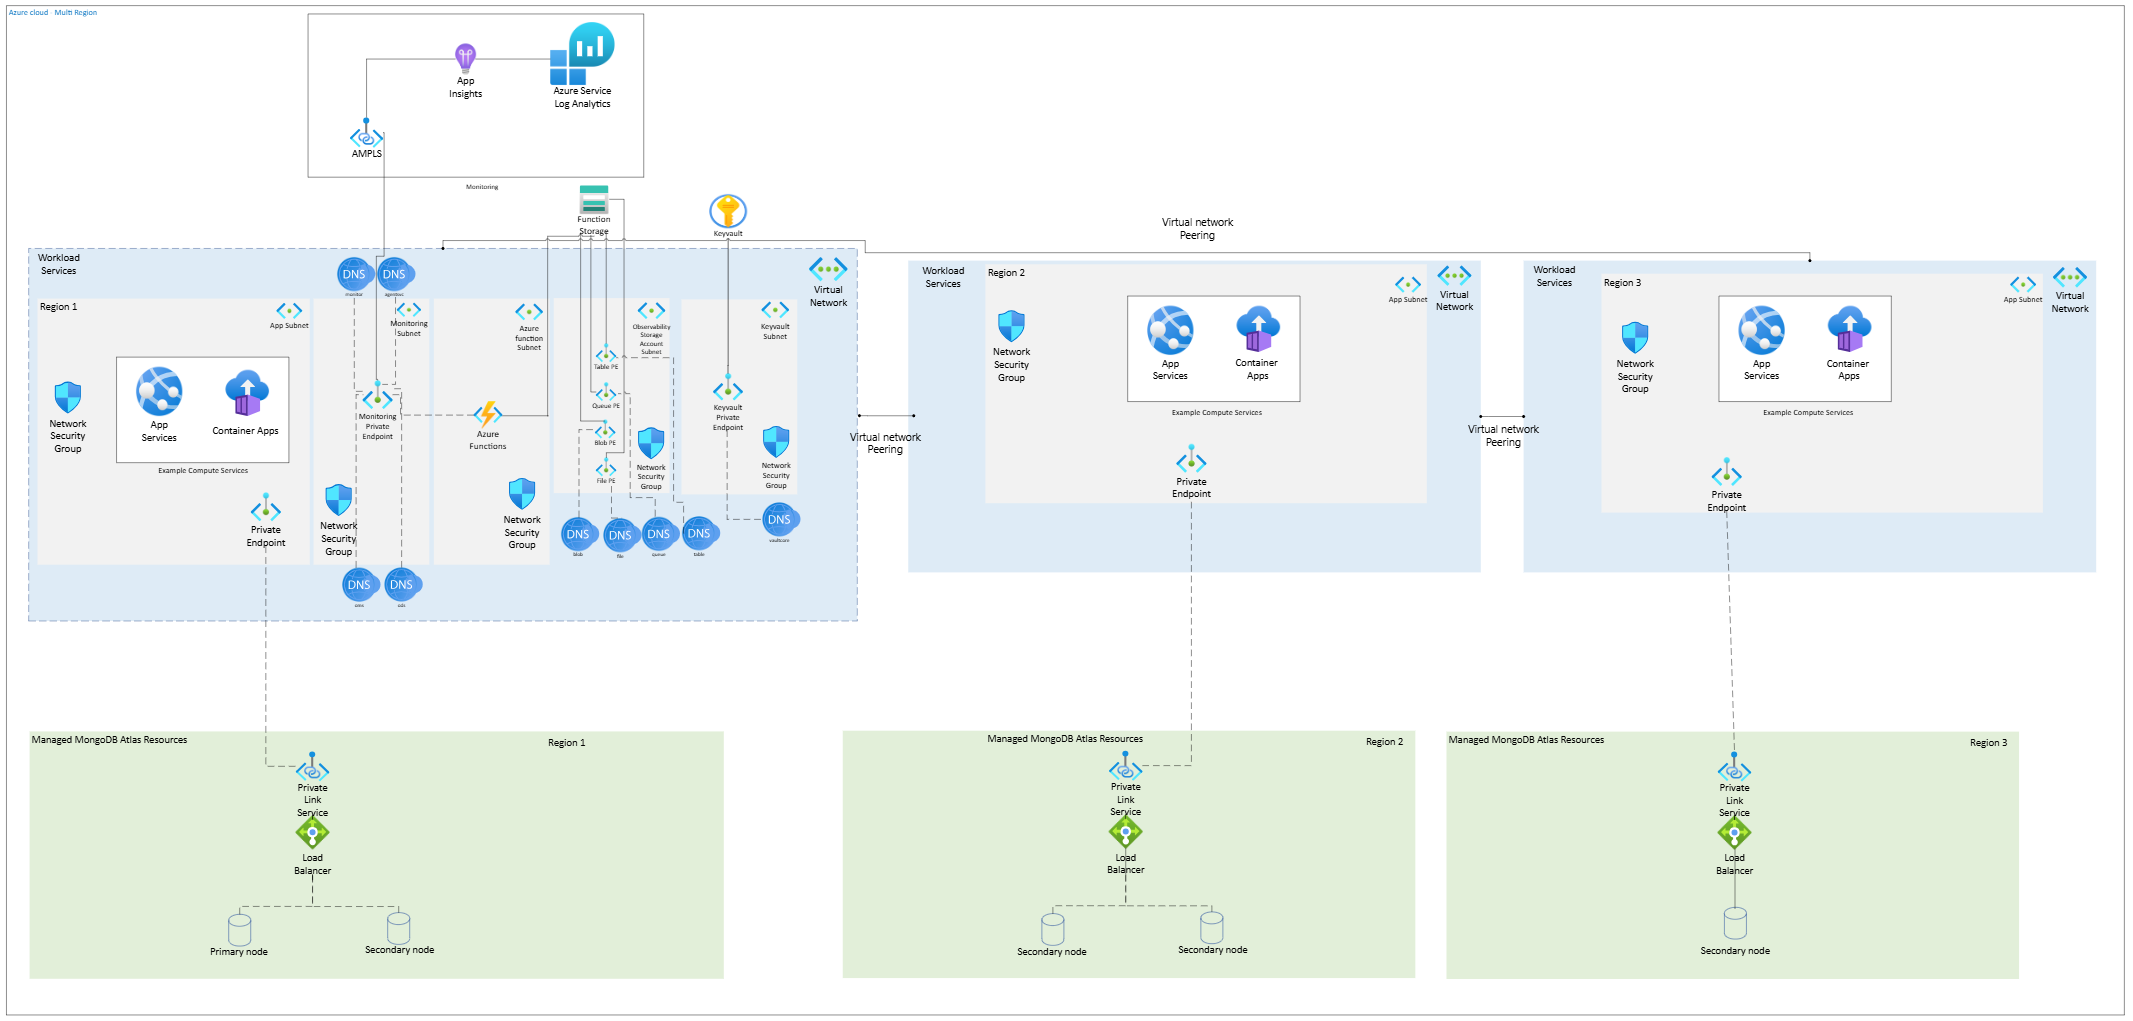
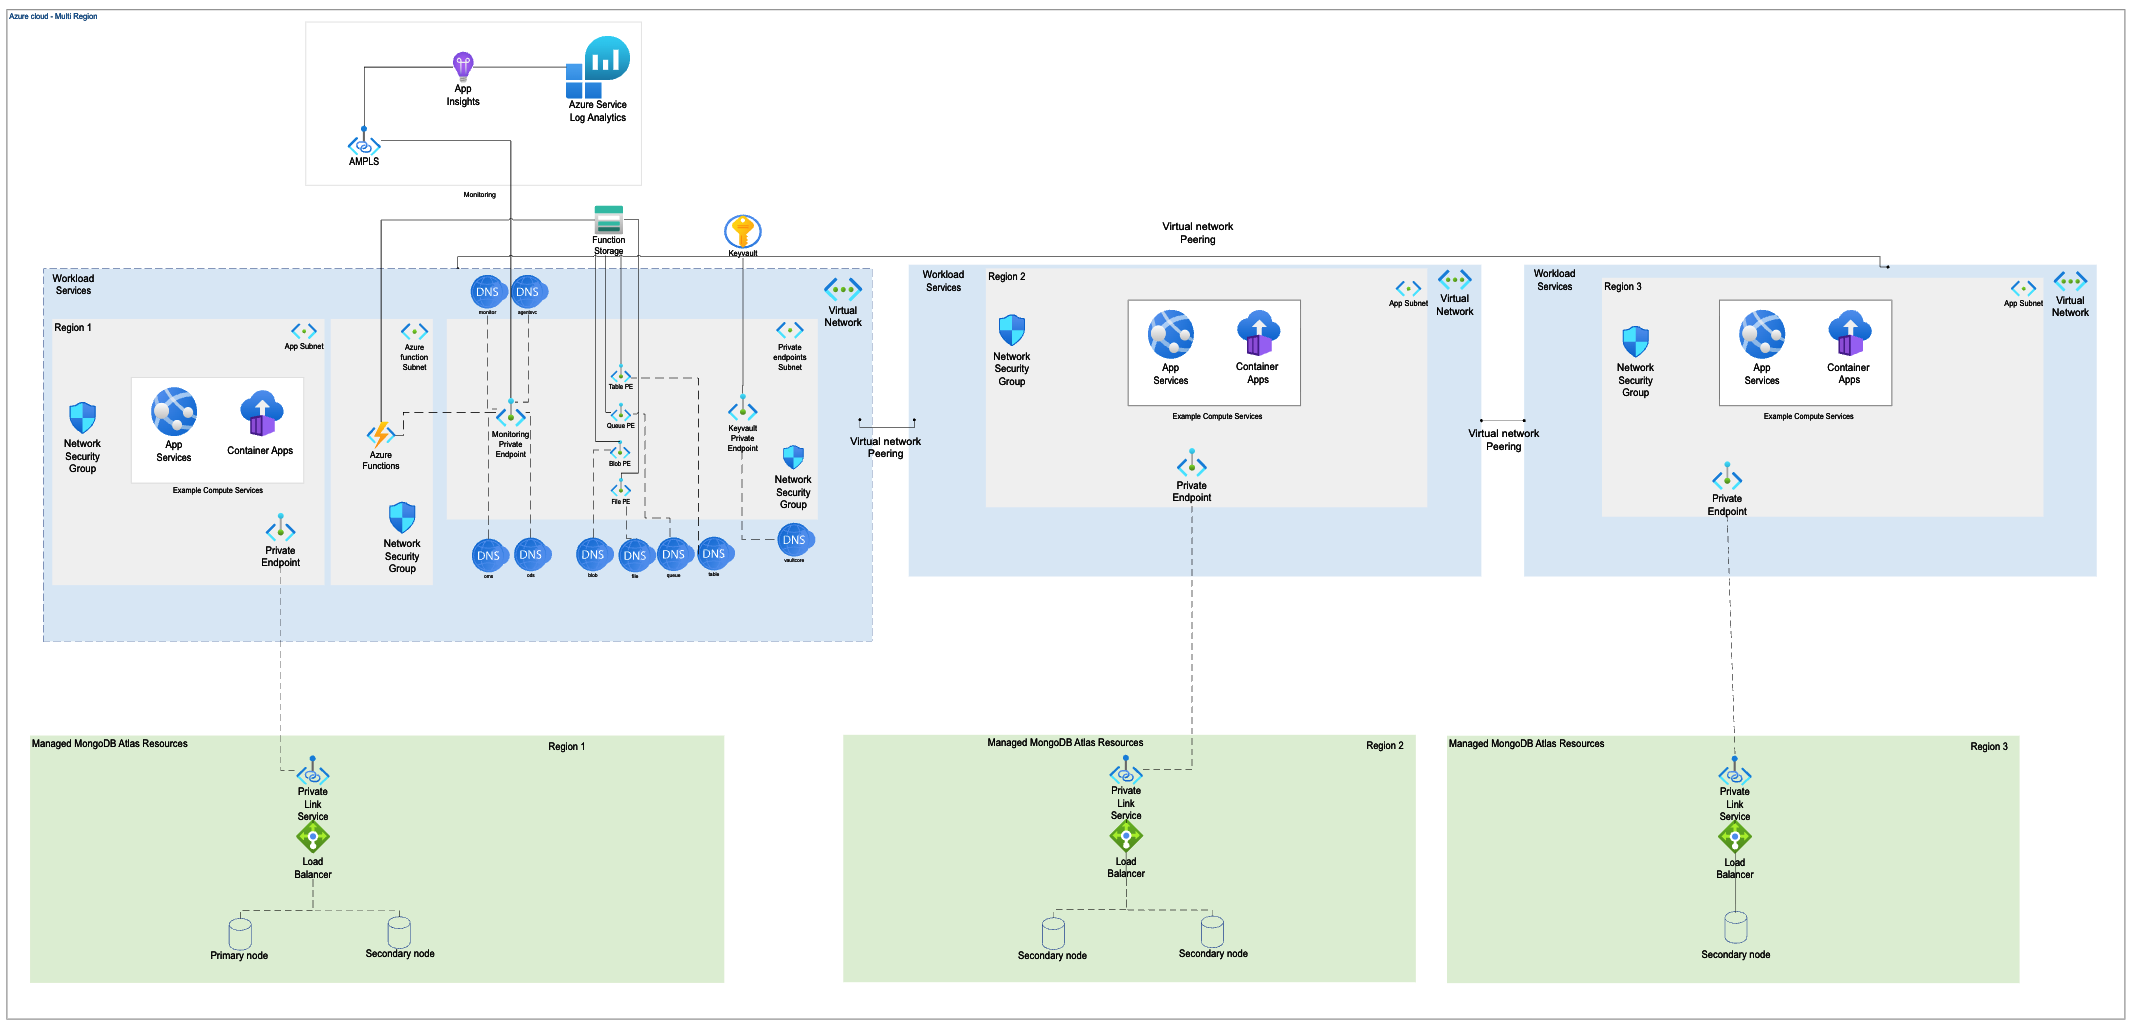
Group PE in a single subnet

diff --git a/templates/multi-region/envs/dev/01-base-infra/readme.md b/templates/multi-region/envs/dev/01-base-infra/readme.md
@@ -30,12 +30,10 @@ This configuration creates:
 
 * **MongoDB Atlas Cluster**: Multi-region cluster with backup enabled by default, but it can be turned off if specified.
 * **Virtual Networks**: Dedicated VNets for each configured region.
-* **Private Subnets**: 
-  * Private subnet for MongoDB Atlas connectivity in each region
+* **App Workload Subnets**: 
+  * App workload subnet for MongoDB Atlas connectivity in each region
   * Function app subnet for observability resources (primary region only)
-  * Monitoring AMPLS subnet (primary region only)
-  * Key Vault private endpoint subnet (primary region only)
-  * Observability storage account subnet (primary region only)
+  * A single shared Private Endpoint subnet for all Azure Private Endpoints (Monitoring, Key Vault, Observability, etc.) (primary region only)
 * **VNet Peerings**: Connections between VNets across all regions for seamless communication.
 * **Private Endpoints**: Secure connections to MongoDB Atlas in each region.
 * **Monitoring Resources** (per region):
@@ -45,14 +43,14 @@ This configuration creates:
   * Private DNS Zones (created in primary region, linked to all regions)
 * **Azure Key Vault** (primary region): Secure storage for MongoDB Atlas client secret with:
   * Network ACL restrictions (configurable via `open_access` variable)
-  * Private endpoint for secure access
+  * Private endpoint for secure access (deployed into the shared Private Endpoint subnet)
   * Access policy for Function App managed identity
 * **Observability Resources** (primary region): Provisions infrastructure for centralized monitoring, including:
   * Storage Account
   * Service Plan
   * Function App (with system-assigned managed identity)
   * Private DNS Zones
-  * Private Endpoints
+  * Private Endpoints (all deployed into the shared Private Endpoint subnet)
   * After resource creation, you must deploy the metrics collection function code to the Function App. This function will securely connect to the MongoDB Atlas API using credentials stored in Key Vault, collect metrics, and send them to Application Insights for monitoring and analysis.
   * On the **first run** (resource creation), set `TF_VAR_open_access = true` in your `.tfvars` file to allow public access so the Azure Function code can be deployed successfully.
   * After resources have been created and code has been deployed, rerun with `TF_VAR_open_access = false` (recommended for all successive runs, including production) to restrict access to the Function App subnet only.
@@ -108,18 +106,20 @@ Region definitions are configured in Step 0 (`00-devops/locals.tf`) and passed t
 * **azure\_region**: Corresponding Azure region
 * **priority**: Region priority for Atlas cluster
 * **address\_space**: Virtual network address space
-* **private\_subnet\_prefixes**: Private subnet CIDR blocks
+* **app_workload_subnet_prefixes**: Prefixes for the application workload subnet (MongoDB connectivity)
+* **private\_endpoints\_subnet\_prefixes**: CIDR ranges for the shared Private Endpoint subnet used by all Azure PEs (Monitoring, Key Vault, Observability, etc.)
+* **observability\_function\_app\_subnet\_prefixes** (primary region only): Subnet for the Observability Function App
 * **node\_count**: Number of Atlas nodes in the region
-* **deploy\_observability\_subnets**: Whether to deploy observability-related subnets
-* **has\_keyvault\_private\_endpoint**: Whether to deploy Key Vault private endpoint subnet.
-* **has\_observability\_storage\_account**: Whether to deploy observability storage account subnet.
+* **deploy\_observability\_subnets**: Whether to deploy the shared Private Endpoint subnet for observability-related resources (e.g., Monitoring, Key Vault, Observability, etc.)
+* **has\_keyvault\_private\_endpoint**: Whether to deploy the shared Private Endpoint subnet for Key Vault private endpoint.
+* **has\_observability\_storage\_account**: Whether to deploy the shared Private Endpoint subnet for observability storage account.
 
 ### Networking Settings
 
 * **regions**: Contains Azure-specific configurations for each region, including:
   * **location**: Azure region.
   * **address\_space**: Address space for the virtual network.
-  * **private\_subnet\_prefixes**: Prefixes for private subnets.
+  * **app_workload_subnet_prefixes**: Prefixes for the application workload subnet (MongoDB connectivity)
   * **manual\_connection**: Indicates whether manual connection is required.
   * **observability\_function\_app\_subnet\_prefixes**: Prefixes fot Observability Function App.
   * **observability\_private\_endpoint\_subnet\_prefixes**: Prefixes for Observability private endpoint subnet.

diff --git a/docs/wiki/Deploy-with-pipeline.md b/docs/wiki/Deploy-with-pipeline.md
@@ -20,10 +20,10 @@ This guide shows you how to deploy infrastructure using the automated GitHub Act
 
 This repository provides two main GitHub Actions pipelines for infrastructure deployment:
 
-- **Single-Region:**
+- **Single-Region:**  
   Workflow: `.github/workflows/ci-cd-infra-dev-single-region.yml`
 
-- **Multi-Region:**
+- **Multi-Region:**  
   Workflow: `.github/workflows/ci-cd-infra-dev-multi-region.yml`
 
 Use the pipeline that matches your deployment scenario. Each pipeline automatically manages the correct folder paths and deployment steps.
@@ -32,11 +32,11 @@ Use the pipeline that matches your deployment scenario. Each pipeline automatica
 
 ## Prerequisites
 
-- **Manual Step (Step 00: DevOps):**
-  You must run step 00-devops manually before starting the pipeline. This initializes the resource groups, storage, and permissions needed for the rest of the deployment.
+- **Manual Step (Step 00: DevOps):**  
+  You must run step 00-devops manually before starting the pipeline. This initializes the resource groups, storage, and permissions needed for the rest of the deployment.  
   - Path: `envs/dev/00-devops/` (single- or multi-region as appropriate)
   - For details on this manual step, see [DevOps Setup (Manual Prerequisite)](./Deploy-with-manual-steps.md#devops-setup-manual-prerequisite).
-- **Pipeline Environment Variables:**
+- **Pipeline Environment Variables:**  
   After running step 00-devops, set all required environment variables and GitHub secrets using the outputs. See [Setup-environment.md](Setup-environment.md#github-environment-requirements) for details.
 
 ---
@@ -89,11 +89,11 @@ Use the pipeline that matches your deployment scenario. Each pipeline automatica
 
 ## Choosing the Right Pipeline
 
-- **Single-Region:** `.github/workflows/ci-cd-infra-dev-single-region.yml`
+- **Single-Region:** `.github/workflows/ci-cd-infra-dev-single-region.yml`  
   — For deployments using `templates/single-region/envs/dev/`
-- **Multi-Region:** `.github/workflows/ci-cd-infra-dev-multi-region.yml`
+- **Multi-Region:** `.github/workflows/ci-cd-infra-dev-multi-region.yml`  
   — For deployments using `templates/multi-region/envs/dev/`
-- **App Code:** `.github/workflows/ci-cd-application.yml`
+- **App Code:** `.github/workflows/ci-cd-application.yml`  
   — For deploying the MongoAtlasMetrics Function App or Test DB Connection App
 
 ---

diff --git a/templates/single-region/envs/dev/01-base-infra/readme.md b/templates/single-region/envs/dev/01-base-infra/readme.md
@@ -33,12 +33,10 @@ This configuration creates:
 
 - **MongoDB Atlas Cluster**: Single-region cluster with backup enabled by default, but it can be turned off if specified.
 - **Virtual Network**: Dedicated VNet for the cluster.
-- **Private Subnets**: 
-  - Private subnet for MongoDB Atlas connectivity
+- **App Workload Subnets**: 
+  - App workload subnet for MongoDB Atlas connectivity
   - Function app subnet for observability resources
-  - Monitoring AMPLS subnet
-  - Key Vault private endpoint subnet
-  - Observability storage account subnet
+  - A single shared Private Endpoint subnet for all Azure Private Endpoints (Monitoring, Key Vault, Observability, etc.)
 - **Private Endpoint**: Secure connection to MongoDB Atlas.
 - **Monitoring Resources**:
   - Log Analytics Workspace
@@ -97,11 +95,9 @@ Follow the detailed guide: [Application Resources Guide](../02-app-resources/rea
 
 Networking configurations are derived from region definition in Step 0. The values in `locals.tf` include:
 - **vnet_address_space**: Address space for the virtual network
-- **private_subnet_prefixes**: Prefixes for private subnets (MongoDB connectivity)
+- **app_workload_subnet_prefixes**: Prefixes for the application workload subnet (MongoDB connectivity)
 - **observability_function_app_subnet_prefixes**: Prefixes for Observability Function App subnet
-- **monitoring_ampls_subnet_prefixes**: Prefixes for monitoring AMPLS subnet
-- **keyvault_private_endpoint_subnet_prefixes**: Prefixes for Key Vault private endpoint subnet
-- **observability_storage_account_subnet_prefixes**: Prefixes for observability storage account subnet
+- **private_endpoints_subnet_prefixes**: CIDR ranges for the shared Private Endpoint subnet used by all Azure PEs (Monitoring, Key Vault, Observability, etc.)
 
 ### Security Settings
 

diff --git a/docs/wiki/Setup-environment.md b/docs/wiki/Setup-environment.md
@@ -73,7 +73,7 @@ These `local.tfvars` files will be used when deploying with manual steps.
 
 ### GitHub Environment Requirements
 
-Before running the pipeline, you must create a GitHub environment named `dev` in your repository settings.
+Before running the pipeline, you must create a GitHub environment named `dev` in your repository settings.  
 Follow the official [Creating a GitHub Environment](https://docs.github.com/en/actions/deployment/targeting-different-environments/using-environments-for-deployment) guide for detailed instructions.
 
 ---
@@ -116,7 +116,7 @@ In the `dev` environment, set the following secrets and variables:
 
 #### *Optional Variables (for Test DB Connection App)*
 
-*These variables are only required if deploying the test database connection application.
+*These variables are only required if deploying the test database connection application.  
 They must be configured **after running the Application pipeline step**, when app(s) are created and their names known.*
 
 | Name                          | Description                                                           | Sample Value                       |

diff --git a/templates/single-region/envs/dev/02-app-resources/readme.md b/templates/single-region/envs/dev/02-app-resources/readme.md
@@ -60,7 +60,7 @@ Follow the detailed guide: [Database Connection Testing Guide](../../../../../do
 * **app\_web\_app\_name**: Generated dynamically using the Azure Naming Module
 * **virtual\_network\_name**: Retrieved from Step 1 remote state
 * **subnet\_name**: Generated dynamically using the Azure Naming Module
-* **address\_prefixes**: Retrieved from Step 0 region definition (`app_subnet_prefixes`)
+* **address\_prefixes**: Retrieved from Step 0 region definition (`test_app_subnet_prefixes`)
 
 ### Tags
 

diff --git a/templates/multi-region/envs/dev/02-app-resources/readme.md b/templates/multi-region/envs/dev/02-app-resources/readme.md
@@ -62,7 +62,7 @@ Follow the detailed guide: [Database Connection Testing Guide](../../../../../do
   * **app\_web\_app\_name**: Generated dynamically with Azure Naming Module.
   * **virtual\_network\_name**: Generated in step `01-base-infra`.
   * **subnet\_name**: Generated dynamically with Azure Naming Module.
-  * **address\_prefixes**: Generated in step `00-devops`.
+  * **address\_prefixes**: Retrieved from Step 0 region definition (`test_app_subnet_prefixes`)
 
 ### Tags
 

diff --git a/modules/network/readme.md b/modules/network/readme.md
@@ -70,7 +70,7 @@ module "network" {
   private_endpoints = {
     mongodb = {
       name                    = "pe-mongodb"
-      subnet_key              = "private"
+      subnet_key              = "private_endpoints"
       service_connection_name = "psc-mongodb"
       service_resource_id     = module.mongodb_atlas.pe_service_id
       is_manual_connection    = true
